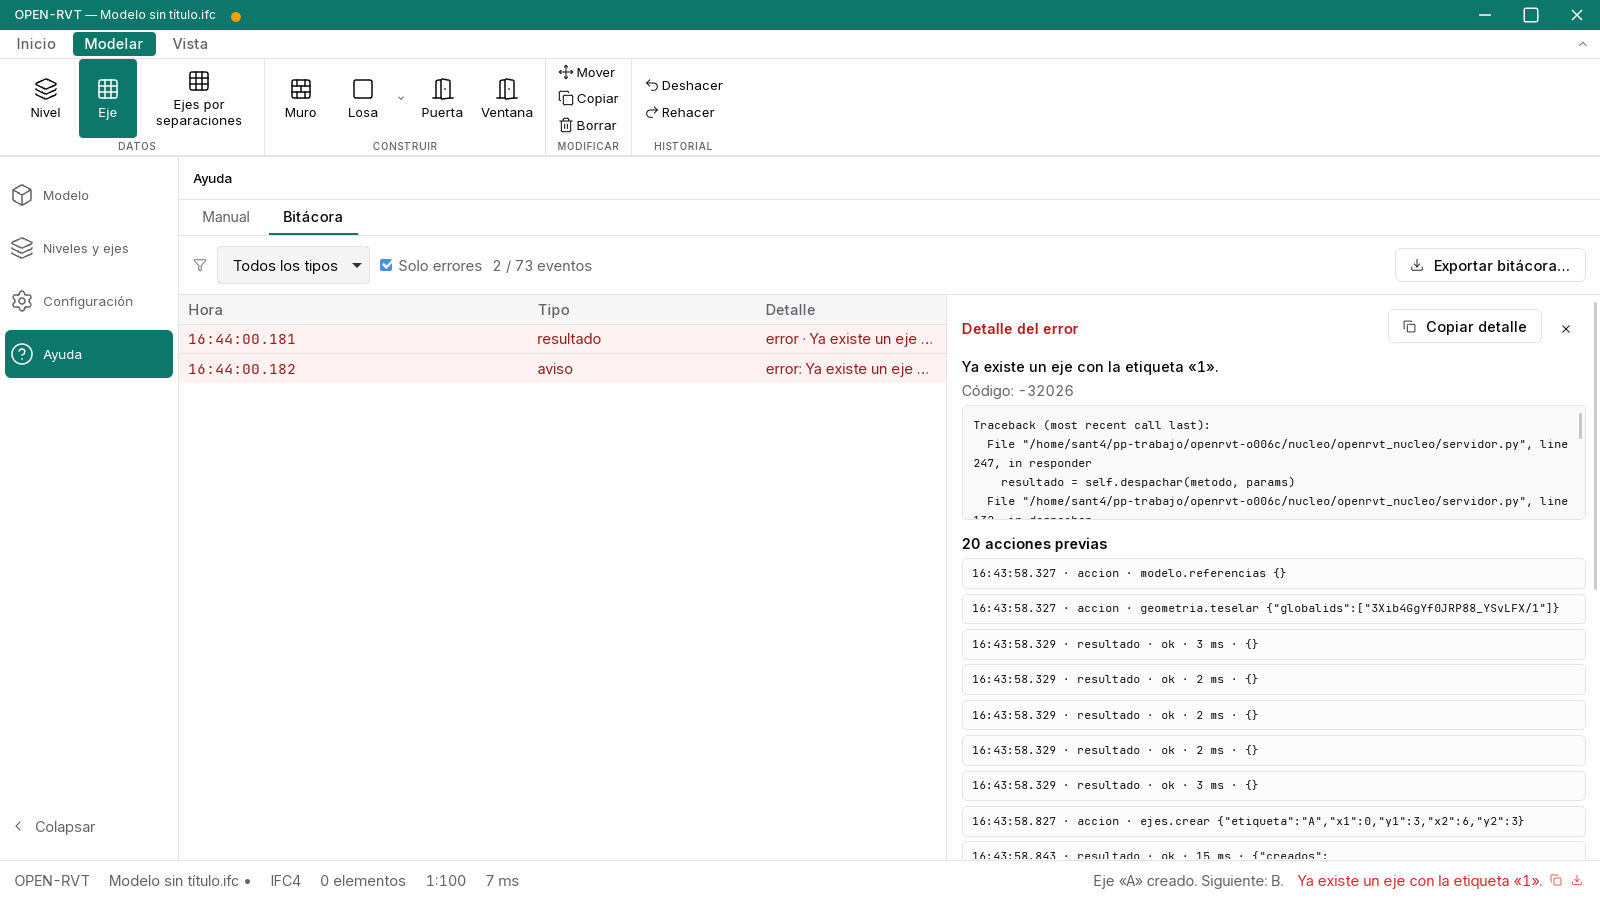
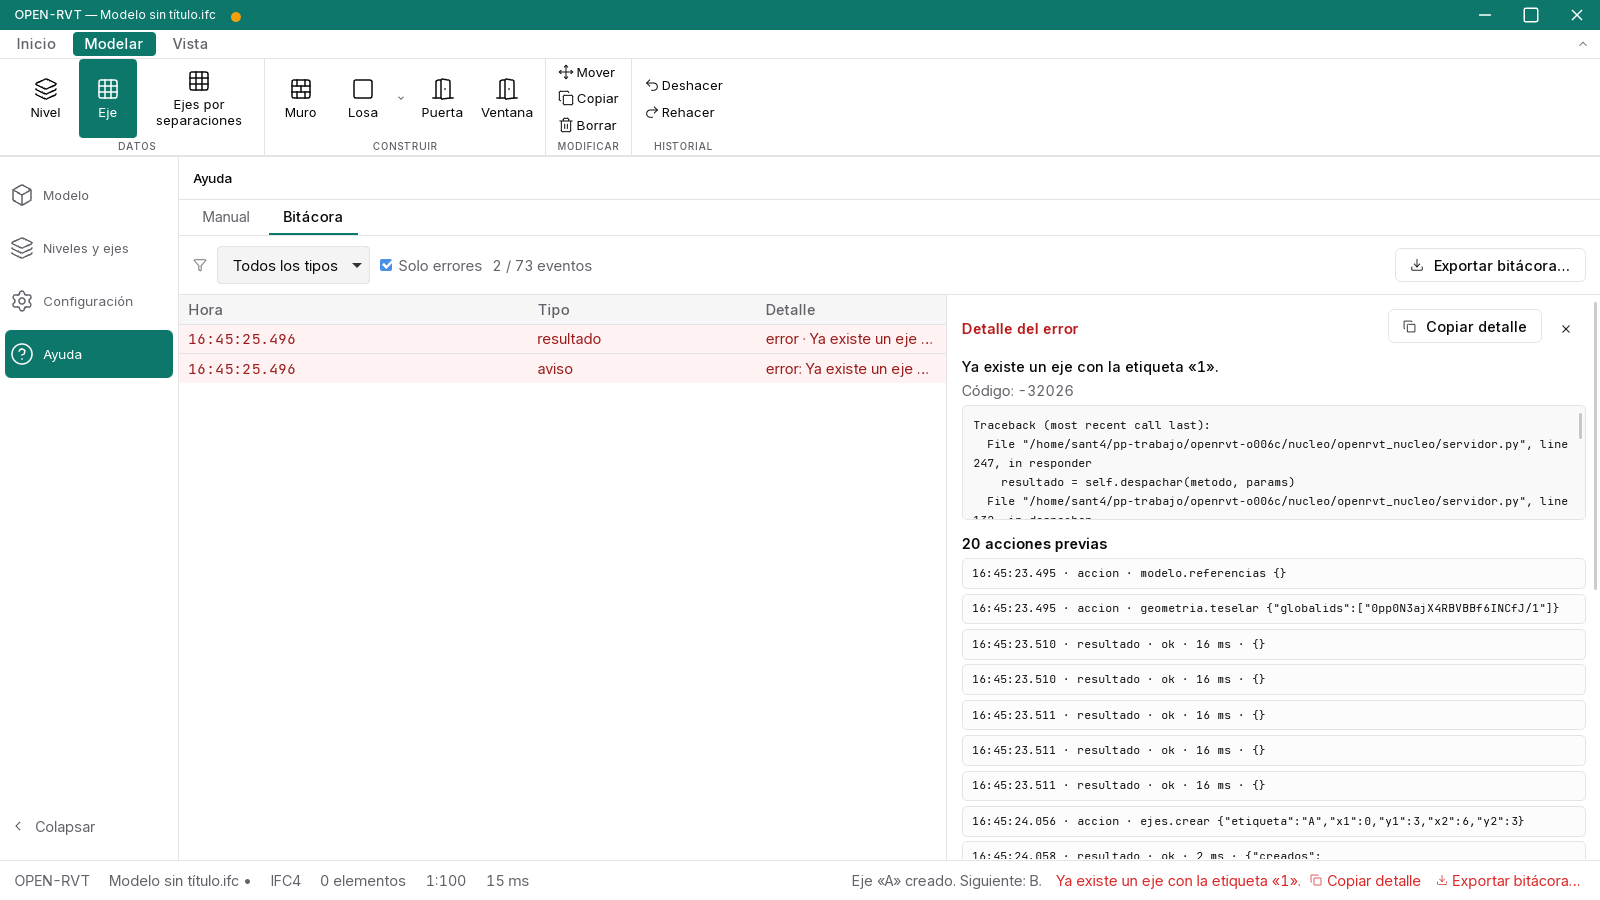
O006c: ruta de clics legible, vaciado inmediato tras un lote y botones de error con texto

diff --git a/src/lib/bitacora.ts b/src/lib/bitacora.ts
@@ -114,14 +114,18 @@ export async function vaciarBitacora(): Promise<void> {
   const lote = pendientes;
   pendientes = [];
   enviando = true;
+  let exito = false;
   try {
     await commands.bitacoraAgregar(lote);
+    exito = true;
   } catch {
     // Sin backend (pruebas en navegador) no hay dónde escribir; no se pierde el panel.
     pendientes = [...lote, ...pendientes];
   } finally {
     enviando = false;
-    if (pendientes.length > 0 && !temporizador) {
+    // Si llegó un error mientras se enviaba el lote, se escribe de inmediato.
+    if (exito && pendientes.length > 0) void vaciarBitacora();
+    else if (!exito && pendientes.length > 0 && !temporizador) {
       temporizador = setInterval(() => void vaciarBitacora(), INTERVALO_ENVIO_MS);
     }
   }
@@ -169,30 +173,35 @@ export function etiquetaDeControl(elemento: Element): string {
 /** Contexto del control: `ribbon>Modelar>Eje`, sin repetir etiquetas. */
 export function rutaDeComponentes(elemento: Element, etiqueta = etiquetaDeControl(elemento)): string {
   const partes: string[] = [];
-  if (elemento.closest('[aria-label="Cinta de opciones"]')) {
+  const barraRibbon = document.querySelector('[role="tablist"]')?.parentElement;
+  const enRibbon = Boolean(barraRibbon && barraRibbon.contains(elemento));
+  if (enRibbon) {
     partes.push("ribbon");
     const pestana = document.querySelector('[role="tab"][aria-selected="true"]');
     const nombre = textoLimpio(pestana?.textContent);
     if (nombre) partes.push(nombre);
+    const grupo = elemento.closest('[data-testid^="grupo-"]');
+    const nombreGrupo = textoLimpio(grupo?.getAttribute("aria-label"));
+    if (nombreGrupo) partes.push(nombreGrupo);
+  } else {
+    const ancestros: string[] = [];
+    let actual = elemento.parentElement;
+    for (let i = 0; actual && i < 8; i += 1) {
+      const testid = actual.getAttribute("data-testid");
+      const aria = actual.getAttribute("aria-label");
+      if (testid && !testid.startsWith("cmd-")) ancestros.unshift(testid);
+      else if (aria) ancestros.unshift(textoLimpio(aria));
+      actual = actual.parentElement;
+    }
+    partes.push(...ancestros.slice(-2));
   }
-  const ancestros: string[] = [];
-  let actual = elemento.parentElement;
-  for (let i = 0; actual && i < 8; i += 1) {
-    const testid = actual.getAttribute("data-testid");
-    const aria = actual.getAttribute("aria-label");
-    if (testid && !testid.startsWith("cmd-")) ancestros.unshift(testid);
-    else if (aria) ancestros.unshift(textoLimpio(aria));
-    actual = actual.parentElement;
-  }
-  partes.push(...ancestros.slice(-2), etiqueta);
-  return [...new Set(partes.filter(Boolean))].slice(-4).join(">");
+  partes.push(etiqueta);
+  return [...new Set(partes.filter(Boolean))].join(">");
 }
 
 /** Vista activa tal como la ve el usuario (módulo y vista de modelo). */
 export function vistaActiva(): string {
-  const modulo = document.querySelector(
-    'nav[aria-label="Módulos"] [aria-current="page"]',
-  );
+  const modulo = document.querySelector('[data-modulo][aria-current="page"]');
   const vista = document.querySelector('[data-testid="vista-item"][aria-current="true"]');
   const partes = [textoLimpio(modulo?.getAttribute("aria-label")), textoLimpio(vista?.textContent)];
   return partes.filter(Boolean).join(" · ");

diff --git a/src/app/BarraEstado.tsx b/src/app/BarraEstado.tsx
@@ -91,15 +91,18 @@ export function BarraEstado() {
               type="button"
               data-testid="aviso-copiar-detalle"
               title={t("bitacora.copiar-detalle", "Copiar detalle")}
+              aria-label={t("bitacora.copiar-detalle", "Copiar detalle")}
               onClick={() => copiarTexto(textoDeDetalle(ultimoErrorBitacora()))}
-              className="shrink-0 rounded p-0.5 hover:bg-muted"
+              className="flex shrink-0 items-center gap-1 rounded px-1 hover:bg-muted"
             >
               <Copy size={12} strokeWidth={1.5} />
+              {t("bitacora.copiar-detalle", "Copiar detalle")}
             </button>
             <button
               type="button"
               data-testid="aviso-exportar-bitacora"
               title={t("bitacora.exportar", "Exportar bitácora…")}
+              aria-label={t("bitacora.exportar", "Exportar bitácora…")}
               onClick={() => {
                 void exportarBitacora({ rutaIfc: useModelo.getState().ruta }).catch((e: unknown) => {
                   useModelo
@@ -107,9 +110,10 @@ export function BarraEstado() {
                     .fijarAviso(`No se pudo exportar: ${e instanceof Error ? e.message : String(e)}`);
                 });
               }}
-              className="shrink-0 rounded p-0.5 hover:bg-muted"
+              className="flex shrink-0 items-center gap-1 rounded px-1 hover:bg-muted"
             >
               <Download size={12} strokeWidth={1.5} />
+              {t("bitacora.exportar", "Exportar bitácora…")}
             </button>
           </span>
         )}
